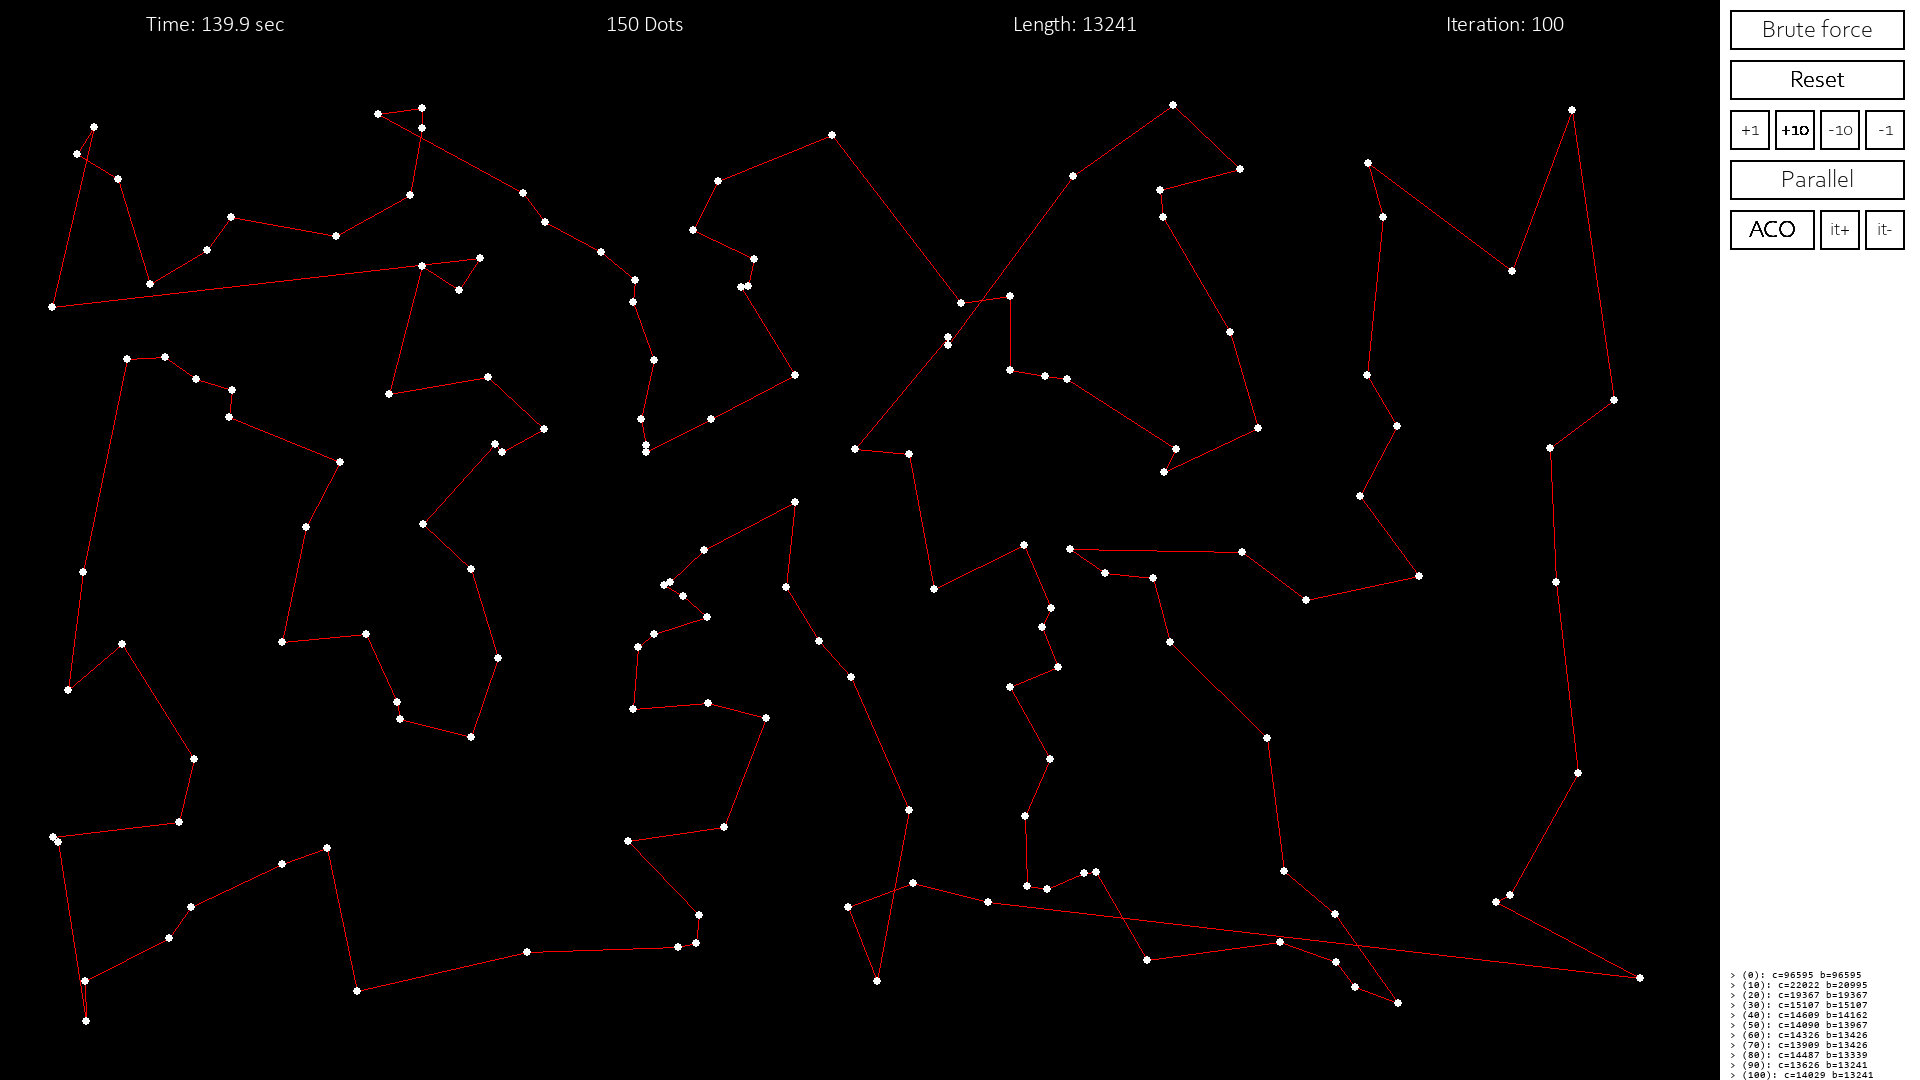
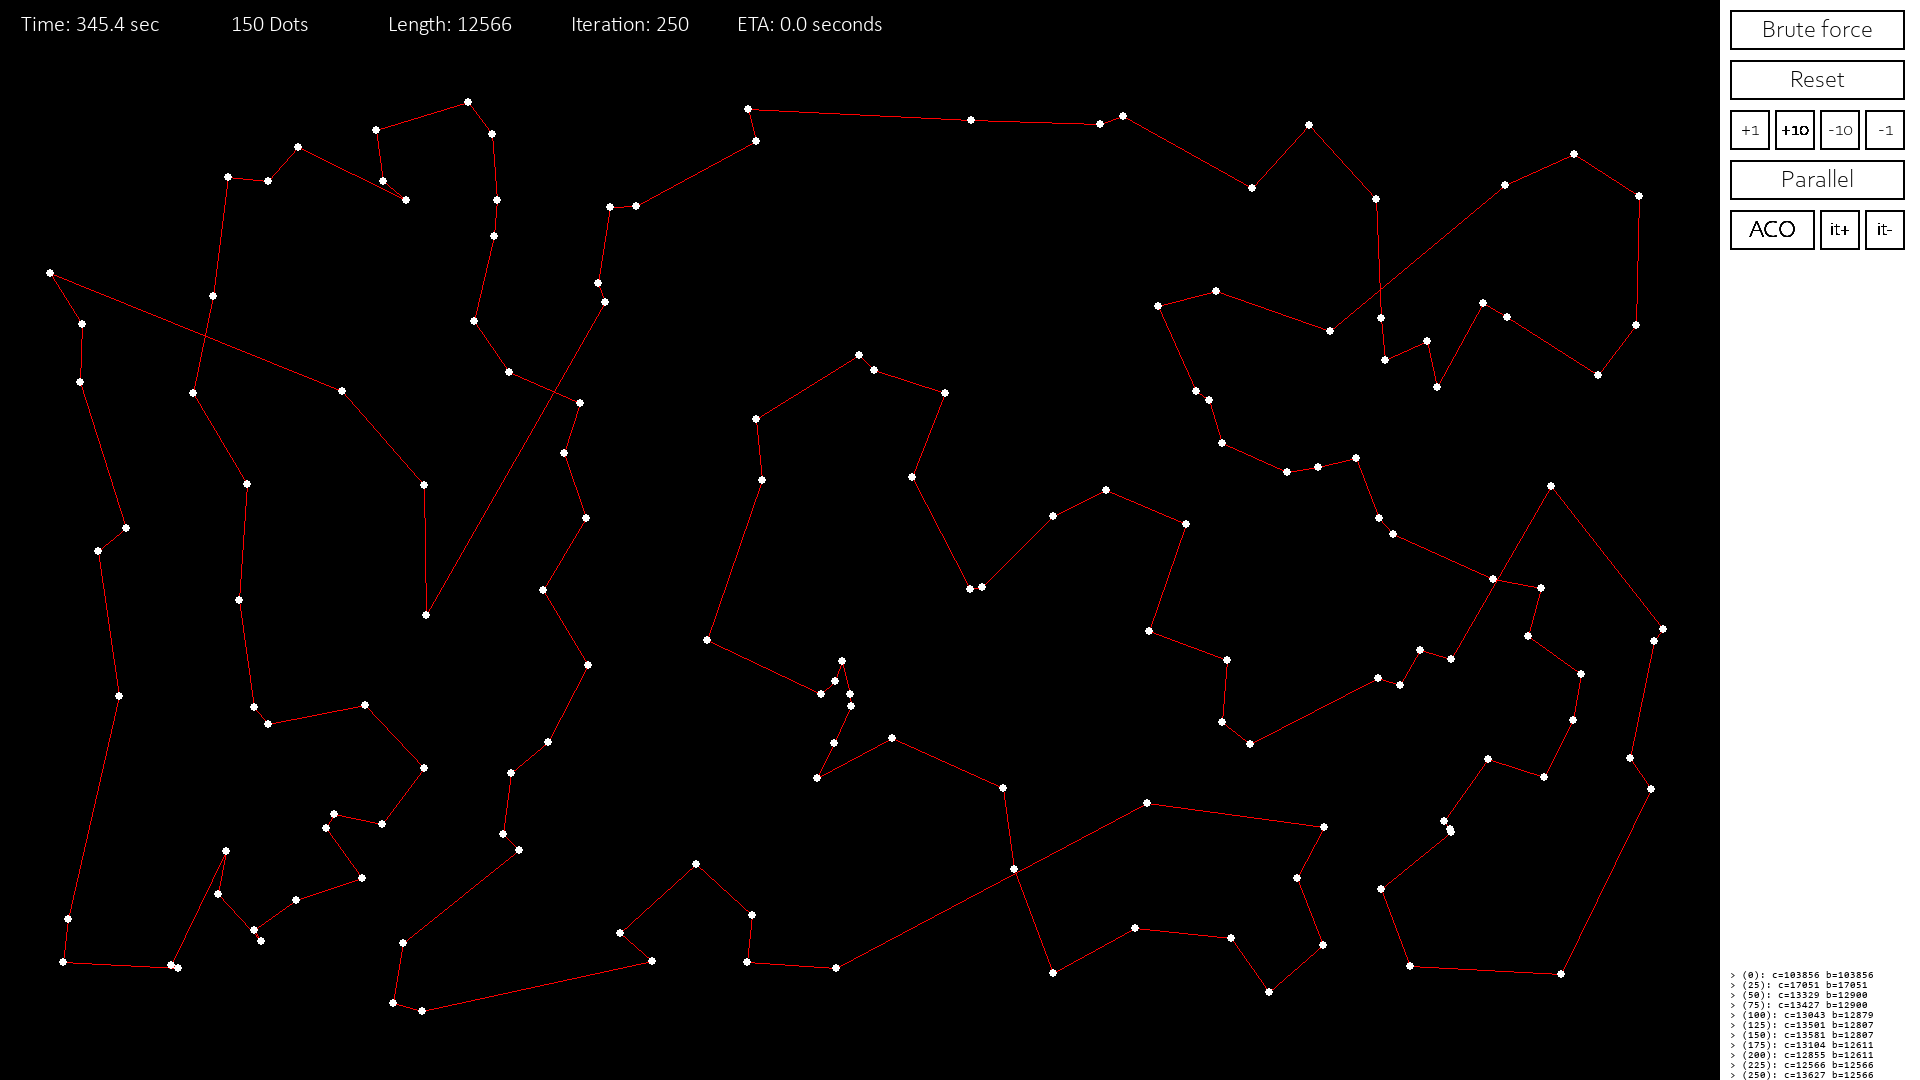
Add eta to ACO

diff --git a/TravellingSalesman/AntColonyOptimization.py b/TravellingSalesman/AntColonyOptimization.py
@@ -18,20 +18,26 @@ class ACOAlgorithm(Algorithm):
     pheromoneDeposit = 1
     initialPheromone = 1
     iterations = 100
+
+    timeIteration: int
     def __init__(self, controller: Controller) -> None:
         super().__init__(controller)
 
     def addIterations(self, change):
         self.iterations = max(1, self.iterations + change)
-
-    def run(self, positions):
+    
+    def initialize(self, positions):
+        self.timeIteration = 0
         self.initializePheromone(positions)
         initLength = self.getRouteLength(positions)
-        bestRoute, bestLength = self.updateRoute([positions], [initLength], positions, initLength+1, 0)
         # Testing proves the antsTravel() part of the algorithm to be the slowest part.
         # According to a paper, around 30% of the network size is an optimal number of ants (albeit for MMAS)
         # (see the "Number of ants" source in README.md)
-        self.ants = max(25, int(len(positions)*0.3))
+        self.ants = max(10, int(len(positions)*0.3))
+        return self.updateRoute([positions], [initLength], positions, initLength+1, 0)
+
+    def run(self, positions):
+        bestRoute, bestLength = self.initialize(positions)
 
         for i in range(self.iterations):
             routes = self.antsTravel(positions)
@@ -68,8 +74,13 @@ class ACOAlgorithm(Algorithm):
                     continue
                 self.pheromoneTrails[(position, pos)] = self.initialPheromone
 
+    def updateTime(self):
+        self.timeIteration += 1
+        self.controller.displayTimeLeft(self.timeIteration, self.iterations)
+
     def antsTravel(self, positions: list[tuple]):
         routes = []
+        self.updateTime()
         for i in range(self.ants):
             current = positions[randint(0, len(positions)-1)]
             visited = [current]

diff --git a/Framework/controller.py b/Framework/controller.py
@@ -102,4 +102,4 @@ class Controller():
             elapsed = self.timer.getElapsedTime()
             eta = elapsed*length/current - elapsed
             timeString = self.timer.getTimeString(eta)
-            self.ui.drawTopText(f'ETA: {timeString}', 5)
+            self.ui.drawTopText(f'ETA: {timeString}', 4)

diff --git a/Framework/uiSettings.py b/Framework/uiSettings.py
@@ -6,7 +6,7 @@ class UISettings():
     height = 500
     menuWidth = 200
     margin = 50
-    topbarWidth = 150
+    topbarWidth = 180
 
     fieldWidth = width - menuWidth
     fieldHeight = height - margin

diff --git a/TravellingSalesman/TODO.md b/TravellingSalesman/TODO.md
@@ -14,11 +14,11 @@
 - [x] Implement Ant Colony Optimisation Algorithm
 - [x] Look for optimisations in algorithms with benchmarking
 - [x] Add testing
+- [x] Add time left estimate
 - [ ] Add fading pheromone visuals to ACO
 - [ ] Add normalisation to remove inconsistencies between screen sizes and datasets
 - [ ] Make all ACO setting togglable in the GUI
 - [ ] Add seeding
-- [ ] Add time left estimate
 
 - [ ] Add cooler and more efficient algorithms
 - [ ] Implement ACO variants
